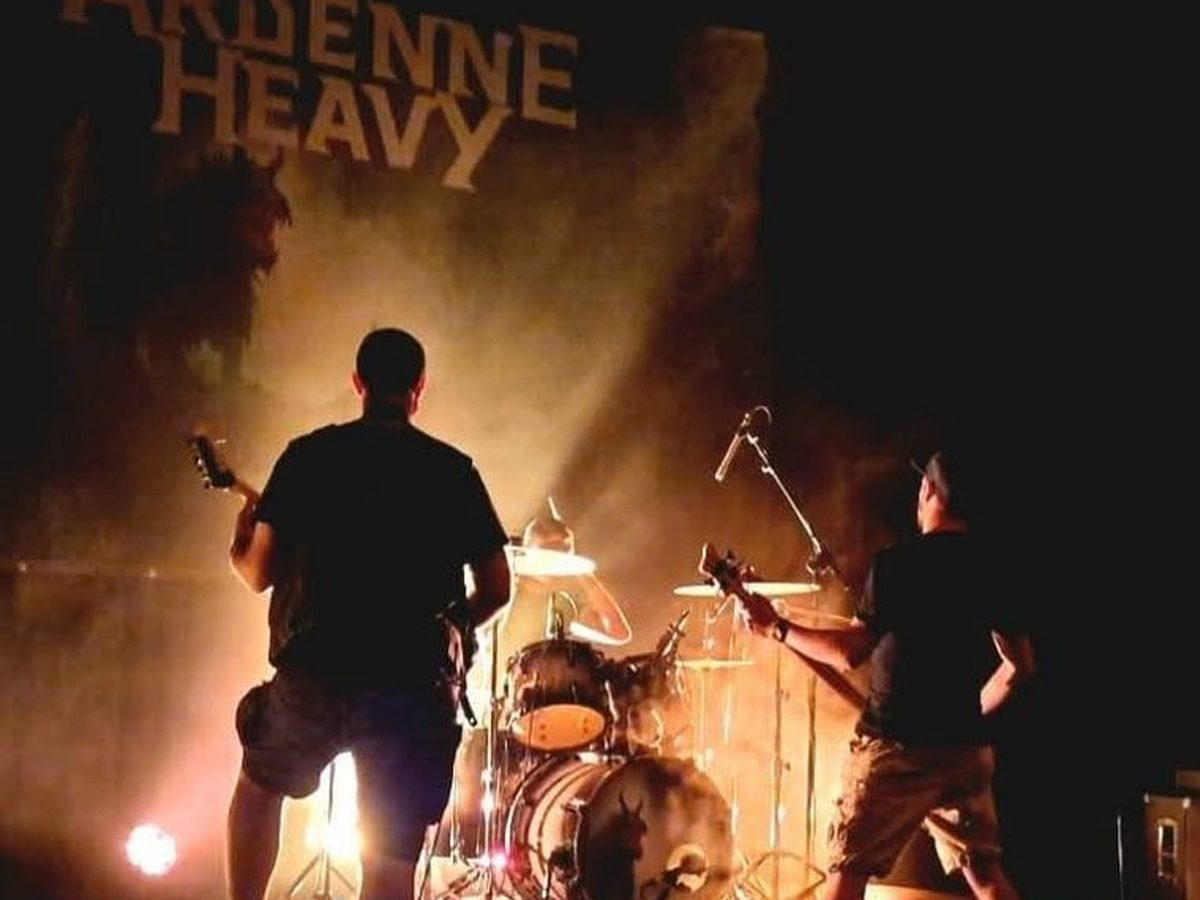
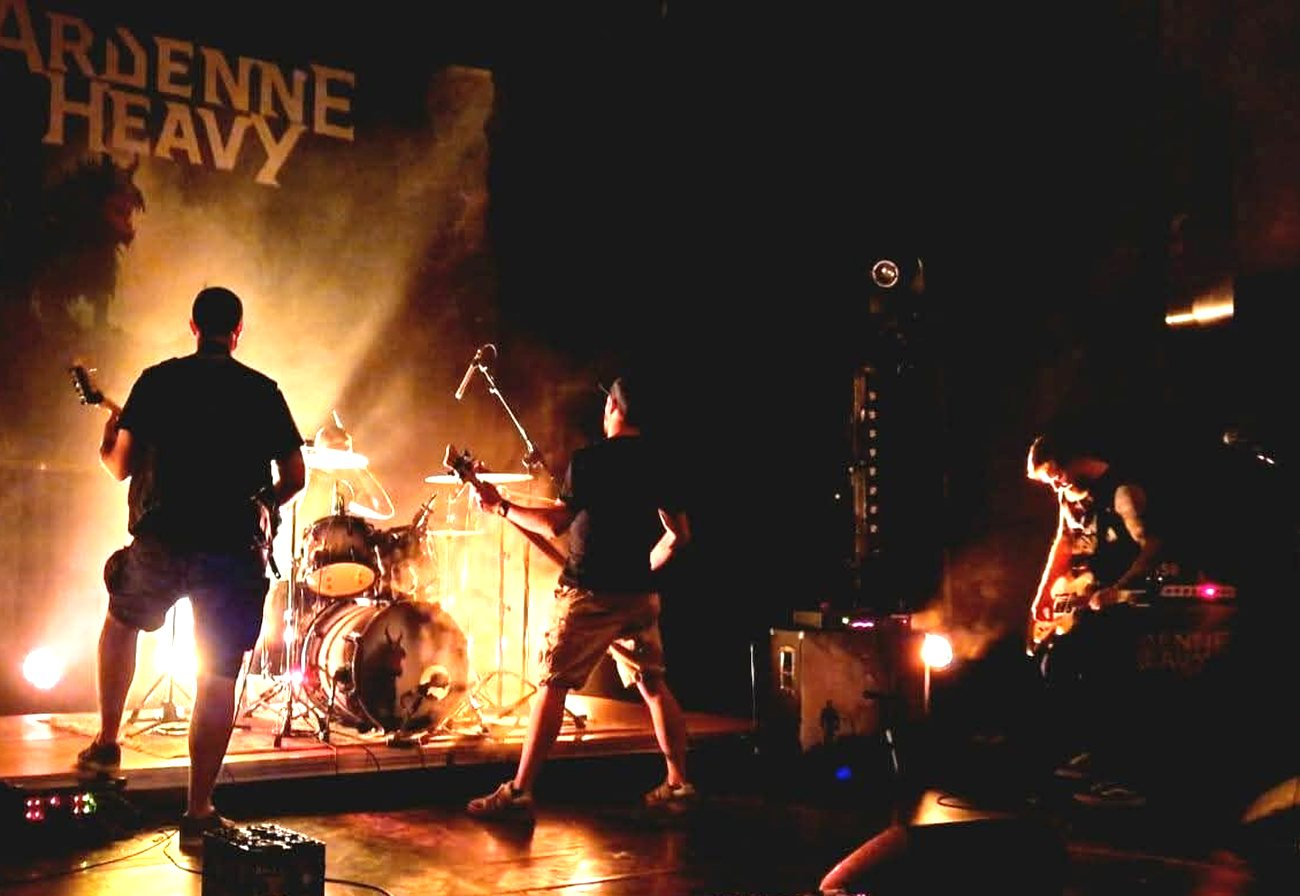
v3.0 — la carte Caisse montre les quatre musiciens
Recadrage sur toute la largeur de la photo d'origine. Le cadrage précédent
s'arrêtait avant le bassiste, qui est à l'extrême droite : batterie, les deux
guitaristes et lui tiennent maintenant tous dans la carte.

Le voile a dû être repensé en conséquence. Les musiciens étant répartis d'un
bord à l'autre, le rideau noir de gauche en effaçait la moitié : il ne fait
plus qu'appuyer derrière les chiffres, et c'est l'ombre portée du texte qui
assure la lisibilité. Un voile d'ensemble a été essayé puis abandonné — sur
une photo déjà nocturne, il noyait tout.

La photo est éclaircie à l'export : le bassiste est dans l'ombre et
disparaissait dès que la carte était assombrie. Le bas de la carte reçoit un
appui plus marqué, sinon le libellé « N ventes » se dissolvait dans la caisse
claire de la batterie, juste derrière.

Vérifié : lint, typecheck, build, et rendu des six écrans dans un navigateur.

Claude-Session: https://claude.ai/code/session_01BToiMLJriZLXUKmR5YmJo4

diff --git a/src/components/CaisseCard.tsx b/src/components/CaisseCard.tsx
@@ -43,18 +43,24 @@ export function CaisseCard({
             onError={() => setHasPhoto(false)}
             className="absolute inset-0 w-full h-full object-cover object-right"
           />
-          {/* Dégradé vers le noir sur la gauche : c'est lui qui rend le texte
-              lisible quelle que soit la photo déposée. Les paliers sont serrés
-              à gauche pour dégager la photo — le voile ne couvre vraiment que
-              la colonne de chiffres. */}
-          <div className="absolute inset-0 bg-gradient-to-r from-card from-8% via-card/75 via-38% to-transparent to-72%" />
-          <div className="absolute inset-0 bg-gradient-to-t from-card/45 to-transparent to-45%" />
+          {/* Les quatre musiciens sont répartis sur toute la largeur : un rideau
+              noir à gauche en effacerait la moitié. Le dégradé ne fait donc
+              qu'appuyer derrière les chiffres, et la lisibilité du texte vient
+              surtout de son ombre portée. Pas de voile d'ensemble : la photo
+              est déjà nocturne, l'assombrir davantage la rendait illisible. */}
+          <div className="absolute inset-0 bg-gradient-to-r from-card/92 from-0% via-card/50 via-28% to-transparent to-60%" />
+          {/* La ligne « N ventes » tombe pile sur la caisse claire de la
+              batterie : sans cet appui par le bas, le gris du libellé s'y
+              dissout. */}
+          <div className="absolute inset-0 bg-gradient-to-t from-card/80 to-transparent to-42%" />
         </div>
       )}
 
       {/* Nom et date du concert : ils vivent ici, sur la carte, plutôt qu'en
-          haut de chaque onglet où ils n'apprenaient rien. */}
-      <div className="relative px-4 pt-3 flex items-start gap-2">
+          haut de chaque onglet où ils n'apprenaient rien.
+          L'ombre portée remplace le rideau noir d'avant : elle décolle le texte
+          de la photo sans avoir à l'assombrir. */}
+      <div className="relative px-4 pt-3 flex items-start gap-2 [text-shadow:0_1px_10px_rgb(0_0_0_/_0.9)]">
         <div className="min-w-0 flex-1">
           <div className={`font-display text-[18px] leading-none truncate ${closed ? "text-muted-foreground" : "text-foreground"}`}>
             {concert.name}
@@ -78,7 +84,7 @@ export function CaisseCard({
         </span>
       </div>
 
-      <div className="relative px-4 pt-2.5 pb-2.5 w-[52%]">
+      <div className="relative px-4 pt-2.5 pb-2.5 w-[52%] [text-shadow:0_2px_12px_rgb(0_0_0_/_0.95)]">
         <div className="text-[11px] uppercase tracking-[0.18em] text-muted-foreground">Caisse</div>
         <div className="mt-1 flex items-baseline text-primary font-display leading-none">
           <span className="text-[2.6rem]">{whole}</span>
@@ -86,7 +92,7 @@ export function CaisseCard({
         </div>
       </div>
 
-      <div className="relative border-t border-border px-4 py-2 flex items-center gap-2 text-[13px] w-[52%]">
+      <div className="relative border-t border-border px-4 py-2 flex items-center gap-2 text-[13px] w-[52%] [text-shadow:0_1px_10px_rgb(0_0_0_/_0.9)]">
         <ShoppingBag className="h-3.5 w-3.5 text-primary shrink-0" />
         <span className="font-semibold">{totalItems}</span>
         <span className="text-muted-foreground">vente{totalItems > 1 ? "s" : ""}</span>

diff --git a/vite.config.pages.ts b/vite.config.pages.ts
@@ -6,7 +6,7 @@ import { resolve } from "path";
 
 // Numéro de version affiché dans le header (petit badge en haut à droite).
 // Bump manuellement ici à chaque changement notable.
-const APP_VERSION = "v2.9";
+const APP_VERSION = "v3.0";
 
 export default defineConfig({
   base: "/Merch/",

diff --git a/public/sw.js b/public/sw.js
@@ -1,4 +1,4 @@
-const CACHE = 'ah-merch-v17';
+const CACHE = 'ah-merch-v18';
 const SCOPE_PATH = new URL(self.registration.scope).pathname;
 
 // Les bundles JS/CSS ont un hash dans leur nom : les servir depuis le cache est
